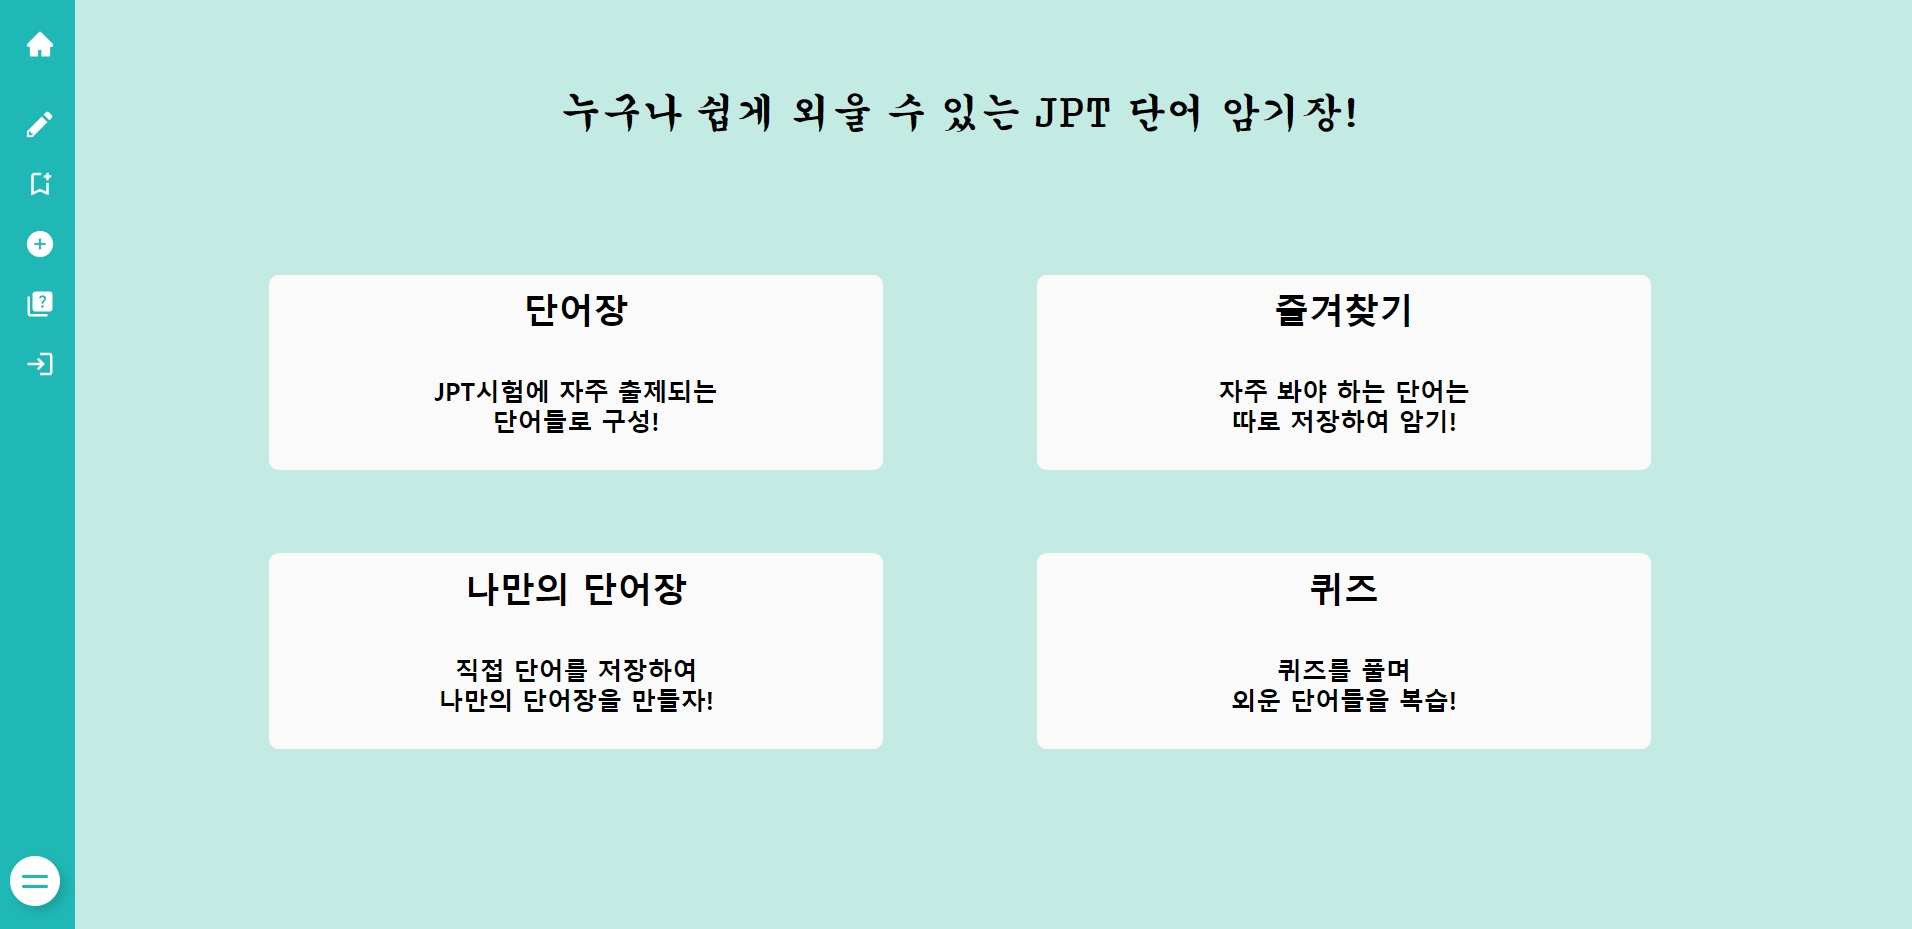
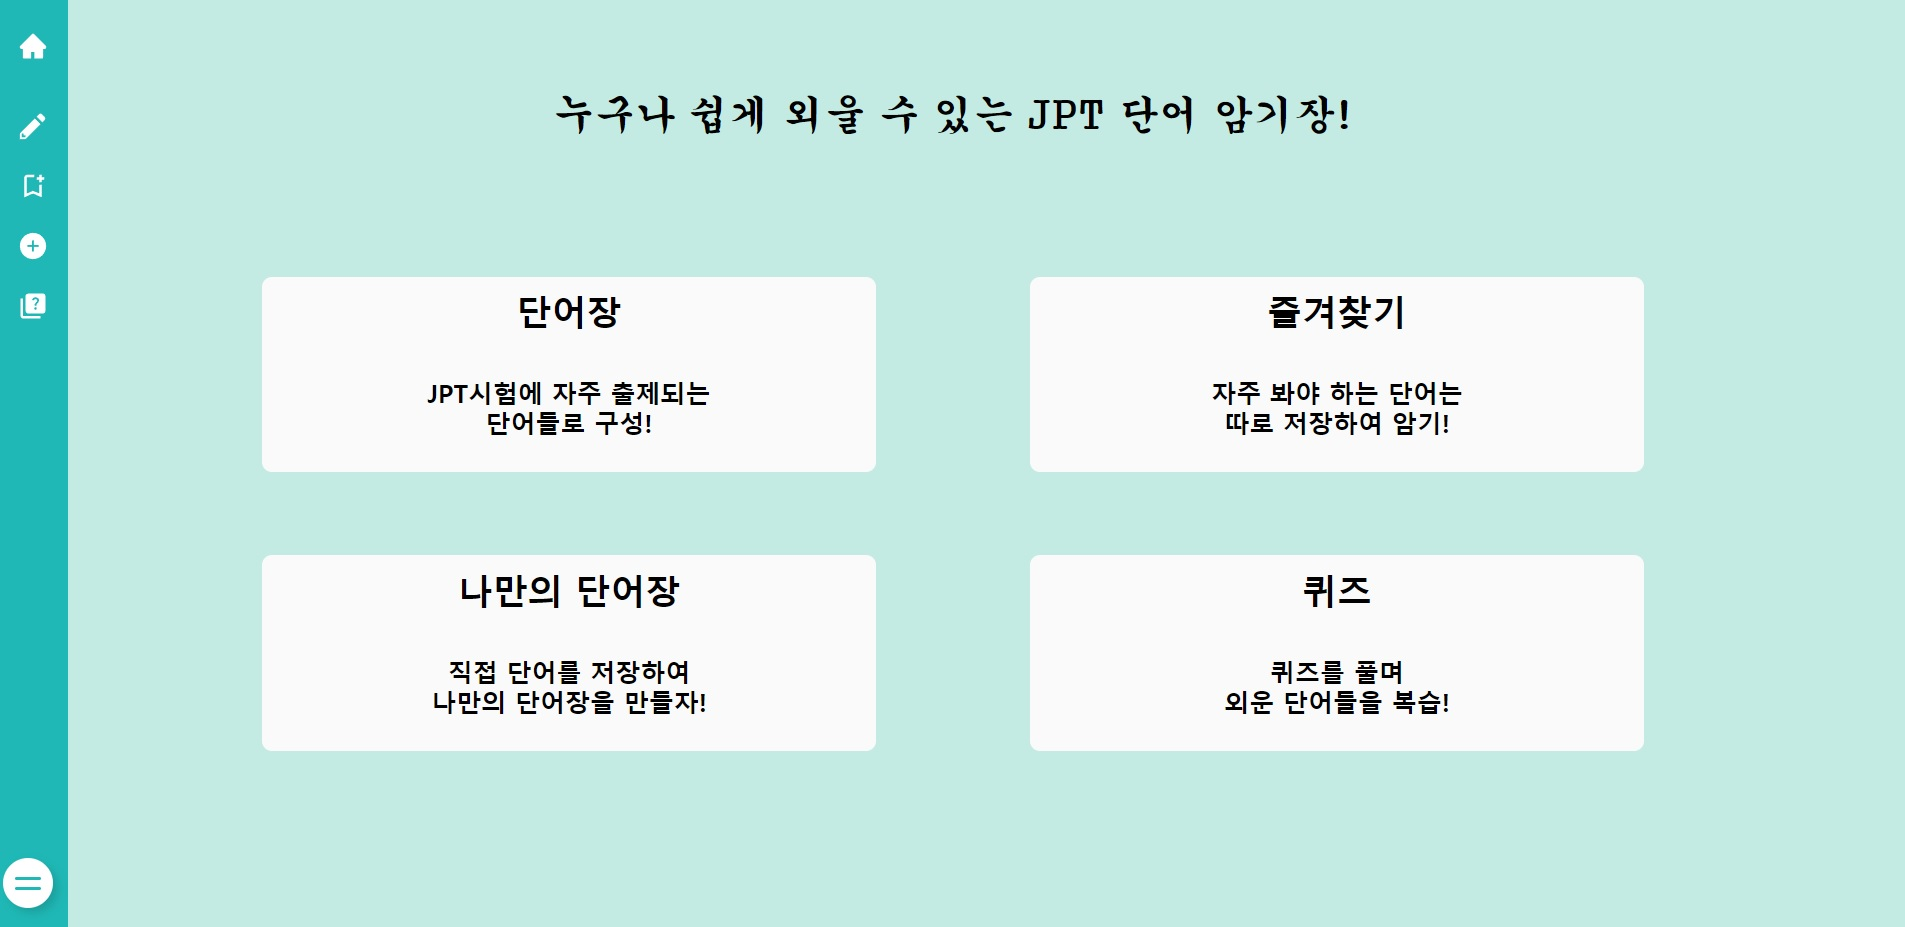
프로젝트 (일어 암기) 수정

diff --git a/index.html b/index.html
@@ -265,8 +265,7 @@
               <ul class="projects_card_skills">
                 <li>리액트</li>
                 <li>
-                  로그인, 단어 검색, 즐겨찾기, 단어 추가, 퀴즈의 기능이
-                  가능합니다 .
+                  단어 검색, 즐겨찾기, 단어 추가, 퀴즈의 기능이 가능합니다 .
                 </li>
                 <li>창 크기에 따른 반응형 웹사이트</li>
               </ul>
